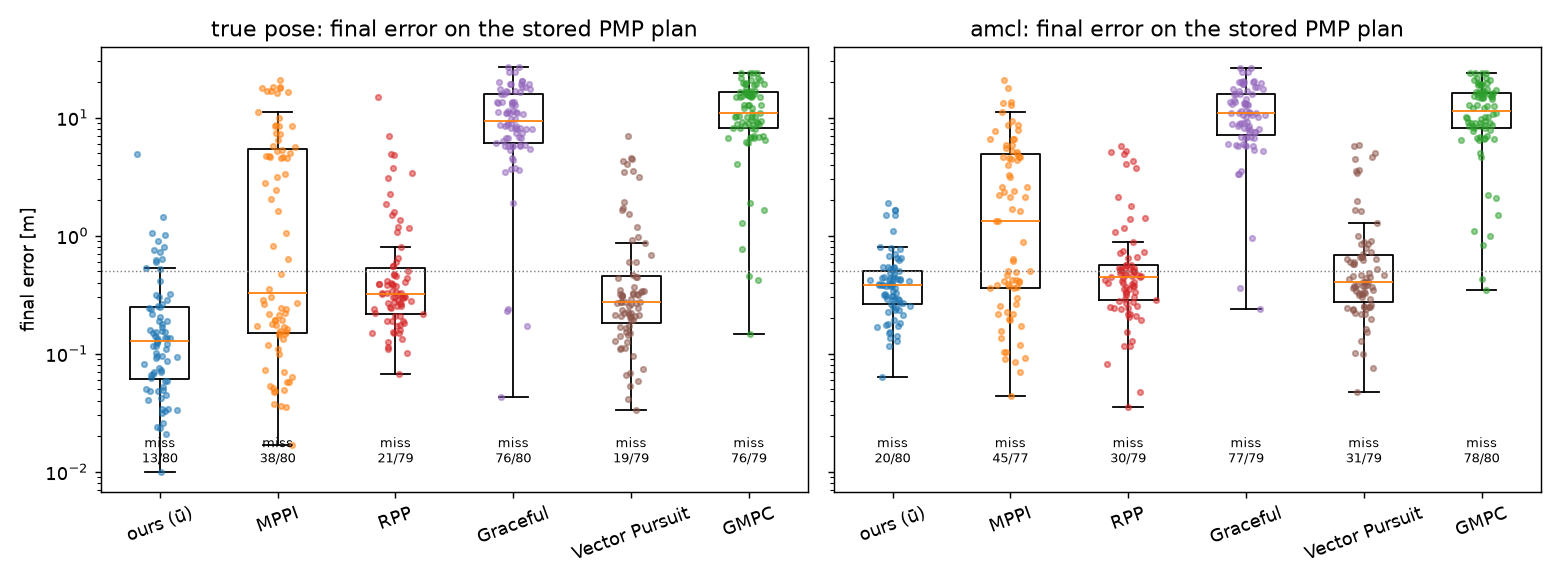
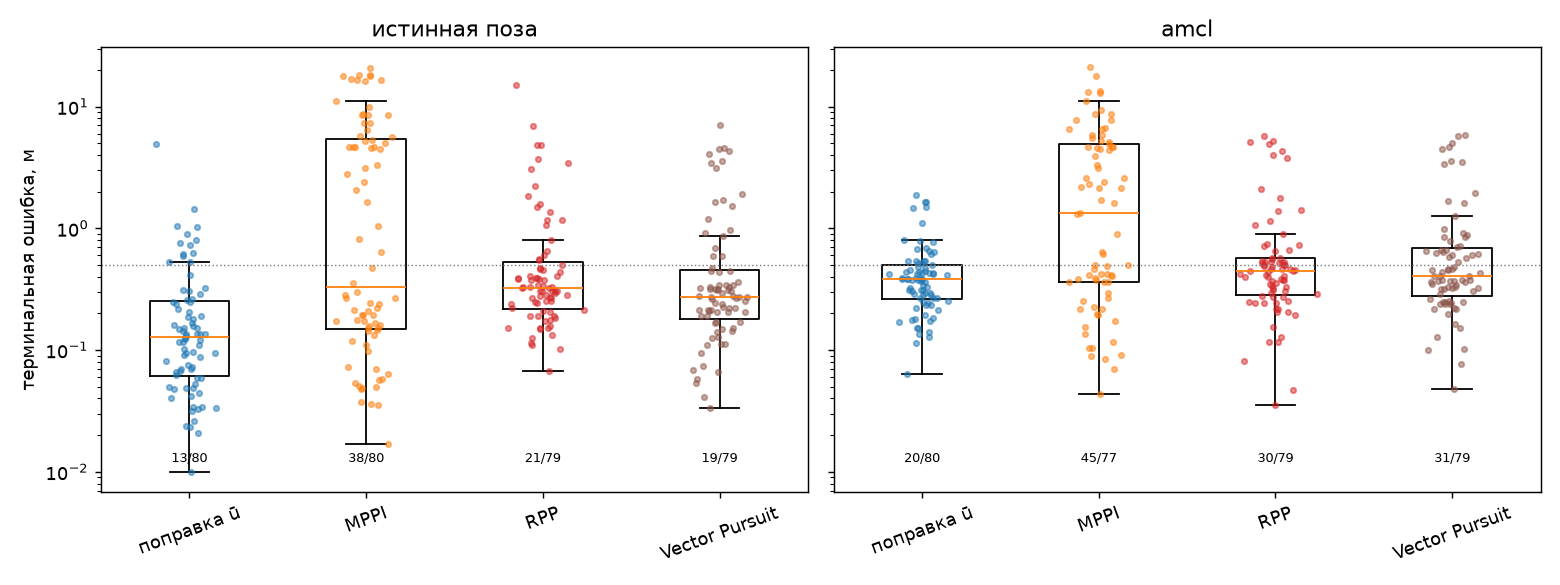
Controller comparison figure: paper arms only, Russian labels

diff --git a/figures/2026-10-06/render_221.py b/figures/2026-10-06/render_221.py
@@ -22,11 +22,15 @@ from scipy.stats import binomtest
 HERE = os.path.dirname(os.path.abspath(__file__))
 WS = os.path.abspath(os.path.join(HERE, "..", ".."))
 DATA = os.path.join(WS, "run_data", "2026-10-06_job221_controllers")
-ARMS = {"L": "ours (ū)", "M": "MPPI", "R": "RPP", "G": "Graceful",
+ARMS = {"L": "поправка ū", "M": "MPPI", "R": "RPP", "G": "Graceful",
         "V": "Vector Pursuit", "K": "GMPC"}
 COL = {"L": "tab:blue", "M": "tab:orange", "R": "tab:red", "G": "tab:purple",
        "V": "tab:brown", "K": "tab:green"}
 LOC = {"T": "true pose", "A": "amcl"}
+LOC_RU = {"T": "истинная поза", "A": "amcl"}
+# Graceful and GMPC are left out of the figure: their integration is broken
+# (95-98% miss), see the paper. They stay in the summary.
+PAPER_ARMS = ("L", "M", "R", "V")
 SCORED = ("arrived", "failed", "timeout")
 
 
@@ -76,7 +80,7 @@ def fig_final_err(by):
         for a in ARMS:
             d = by.get(a + loc, {})
             v = [r["final_err"] for r in d.values() if r["scored"]]
-            if v:
+            if v and a in PAPER_ARMS:
                 data.append(np.clip(v, 0.01, 30)), labels.append(ARMS[a]), cols.append(COL[a])
         if not data:
             continue
@@ -84,12 +88,12 @@ def fig_final_err(by):
         for i, (v, c) in enumerate(zip(data, cols), 1):
             a_.plot(np.random.default_rng(i).normal(i, 0.07, len(v)), v, ".", color=c, alpha=0.5)
             m = sum(x > 0.5 for x in v)
-            a_.text(i, 0.012, f"miss\n{m}/{len(v)}", ha="center", fontsize=7)
+            a_.text(i, 0.012, f"{m}/{len(v)}", ha="center", fontsize=7)
         a_.axhline(0.5, color="grey", ls=":", lw=0.8)
         a_.set_yscale("log")
         a_.set_xticks(range(1, len(labels) + 1), labels, rotation=20)
-        a_.set_title(f"{LOC[loc]}: final error on the stored PMP plan")
-    ax[0].set_ylabel("final error [m]")
+        a_.set_title(f"{LOC_RU[loc]}")
+    ax[0].set_ylabel("терминальная ошибка, м")
     fig.tight_layout()
     fig.savefig(os.path.join(HERE, "job221_final_err.png"), dpi=130)
     plt.close(fig)
